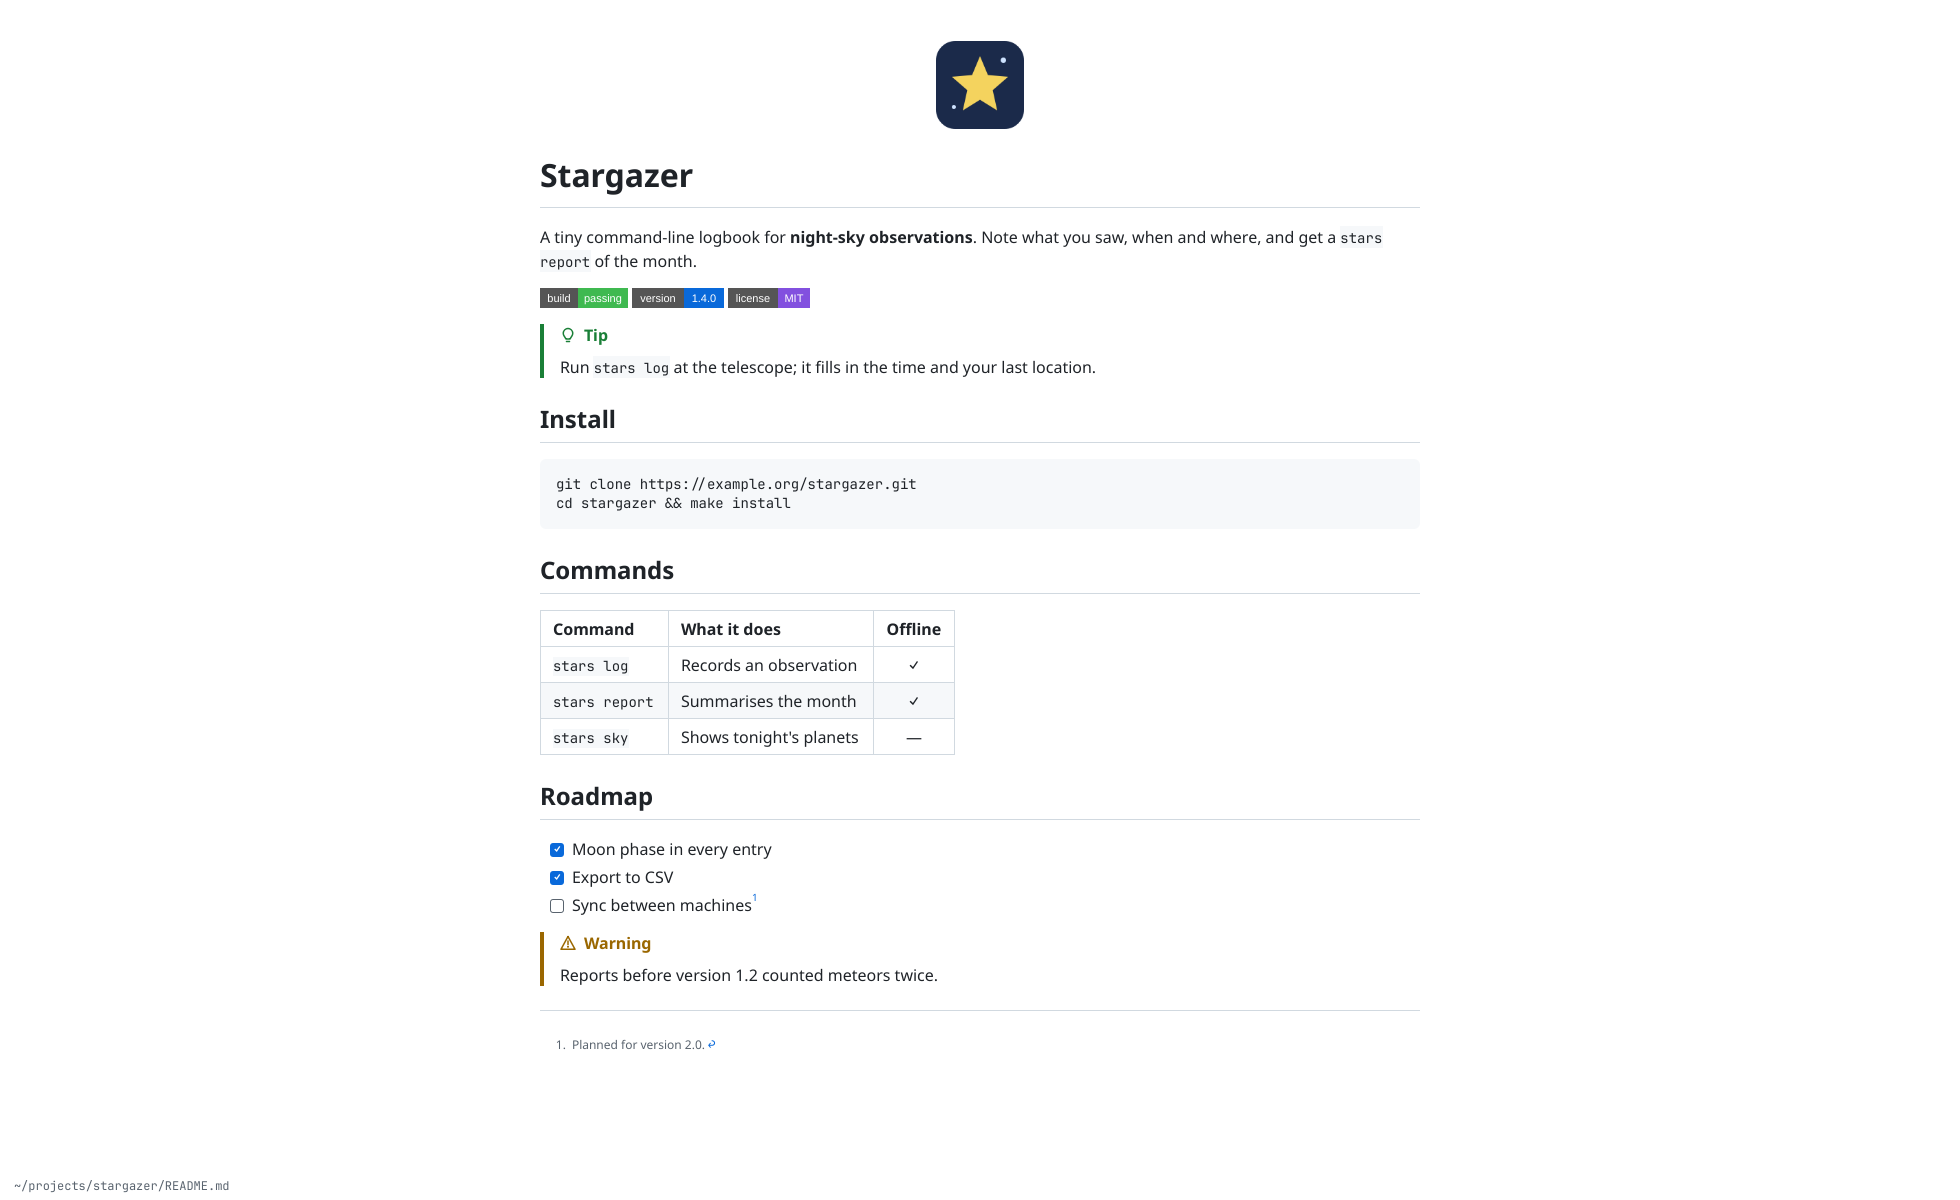
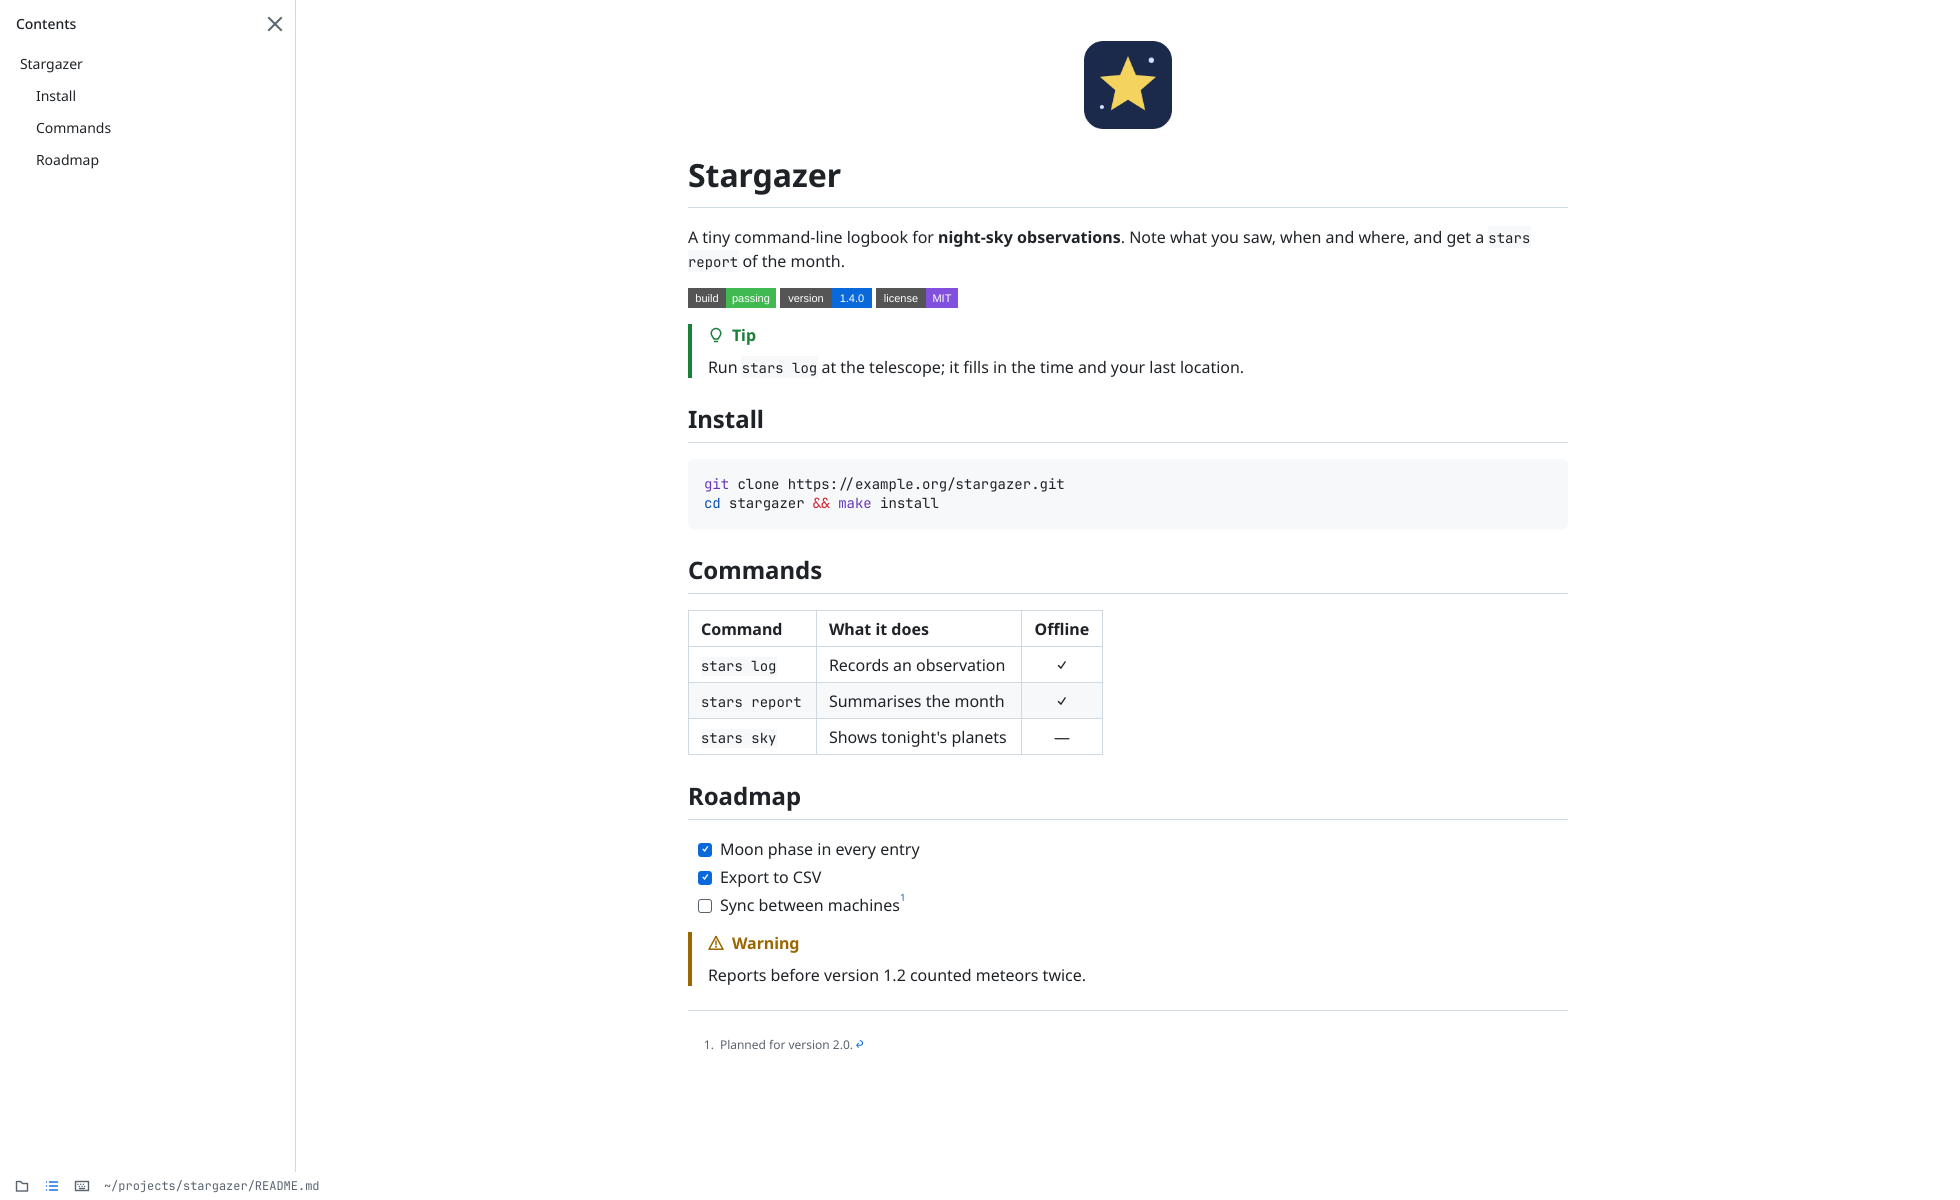
Rework the README for people installing Omaread
It now says plainly that Omaread is a community app, and puts what a
user needs first: install from source, the optional math and Mermaid
packages, uninstalling and making it the default for .md files; then a
short list of features, the shortcuts as a table matching the in-app
list, and what Omaread does on the network and with links. Building,
tests and bin/snapshot move to a Development section at the end.

The screenshots are remade with the footer buttons, and the light one
shows the contents beside the page.

diff --git a/README.md b/README.md
@@ -1,58 +1,132 @@
 # Omaread
 
-A dead-simple Markdown reader built with Qt Quick and C++. It shows a file the
-way GitHub shows it, follows the Omarchy theme and system dark/light mode, and
-keeps up with the file as it changes. It is modelled on
-[Omawrite](https://github.com/omacom/omawrite), and the two work as a pair:
-write in one, read in the other.
+A dead-simple Markdown reader for [Omarchy](https://omarchy.org), built with
+Qt Quick and C++. It shows a file the way GitHub shows it, follows the Omarchy
+theme and system dark/light mode, and keeps up with the file as it changes. It
+is modelled on [Omawrite](https://github.com/omacom/omawrite), and the two work
+as a pair: write in one, read in the other.
 
-<img width="1960" height="1200" alt="Omaread showing a project README in GitHub's light colours" src="docs/omaread-light.png" />
+Omaread is a community app. It is not made by, or affiliated with, the Omarchy
+team.
+
+<img width="1960" height="1200" alt="Omaread showing a project README in GitHub's light colours, with its contents beside the page" src="docs/omaread-light.png" />
 <img width="1960" height="1200" alt="The same README in GitHub's dark colours" src="docs/omaread-dark.png" />
 
-Files are parsed by [cmark-gfm](https://github.com/github/cmark-gfm), the
-parser github.com itself uses, with the same extensions. That covers tables,
-task lists, strikethrough, autolinks and footnotes, plus GitHub's alerts
-(`> [!NOTE]`, `> [!TIP]`, `> [!IMPORTANT]`, `> [!WARNING]`, `> [!CAUTION]`),
-and GitHub's emoji shortcodes, so `:tada:` shows 🎉.
-Headings, quotes, code panels and tables use github.com's sizes and spacing.
-Colours come from the current Omarchy theme, and fall back to GitHub's own
-light and dark palettes when there is none. Code blocks that name their
-language are highlighted by
-[KSyntaxHighlighting](https://invent.kde.org/frameworks/syntax-highlighting),
-which knows some three hundred, in GitHub's colours, or with an Omarchy theme in
-the colours its editor themes give each kind of token.
+## Install
 
-Math, `$…$` in a line and `$$…$$` or a `` ```math `` block on its own, is drawn
-by [MathJax](https://www.mathjax.org), the engine GitHub uses, when `node` and
-Arch's `mathjax` are installed. Formulas are drawn in the background and kept
-in `~/.cache/omaread`; until then, or without MathJax, a formula shows as its
-TeX. Arch's MathJax leaves out the fonts for `\mathbb`, `\mathcal` and the
-like, so formulas using them show as TeX too.
+On Omarchy or Arch Linux, with `git` and `base-devel` installed:
 
-`` ```mermaid `` blocks are drawn as diagrams by Mermaid's own `mmdc`, when
-`mermaid-cli` is installed, the same way: in the background, kept in the cache,
-and shown as code until then. They follow the page's colours: Mermaid's light
-and dark themes on GitHub's palettes, as on github.com, or the Omarchy theme's.
-A block that is not a diagram stays code. Printing draws formulas and diagrams
-in GitHub's light colours.
+```sh
+git clone https://github.com/Frestina/omaread && cd omaread && ./bin/install
+```
 
-Without `node` and `mathjax`, or without `mermaid-cli`, a formula on its own
-line or a diagram shows as its source with a line under it naming what to
-install. A formula in a line of text shows as TeX without one, and paper
-leaves the line out.
+This builds a package and installs it through pacman, which asks for your
+password, along with what Omaread needs. Run it again after a `git pull` to
+update.
 
-READMEs read as they would in their repository:
+To make Omaread what opens `.md` files:
 
-- Images and links resolve relative to the file. A path starting with `/`
-  resolves from the root of the git repository the file is in.
-- Badges and screenshots load from the web, and GIFs play.
-- HTML such as `<p align="center"><img width="200" …></p>`, `<div align="center">`
-  and `<details>` is honoured, and scripts and styles are dropped. `<details>`
-  folds as on GitHub: closed unless it says `open`, and a click on its summary
-  opens or closes it. A link to a heading inside opens it, and it prints open.
-- A link to another Markdown file opens it in the same window. `Alt+Left` comes
-  back to where you were. Links to `#headings` and footnotes scroll there, and
-  web links open in the browser.
+```sh
+xdg-mime default omaread.desktop text/markdown text/x-markdown
+```
+
+Math and Mermaid diagrams are optional. Without them, a formula or diagram
+shows as its source with a line under it naming what to install:
+
+```sh
+sudo pacman -S nodejs mathjax    # math
+sudo pacman -S mermaid-cli       # Mermaid diagrams
+```
+
+To uninstall:
+
+```sh
+sudo pacman -R omaread
+```
+
+## Features
+
+- **GitHub's Markdown.** Files are parsed by
+  [cmark-gfm](https://github.com/github/cmark-gfm), the parser github.com
+  itself uses, with the same extensions: tables, task lists, strikethrough,
+  autolinks and footnotes, plus GitHub's alerts (`> [!NOTE]`, `> [!TIP]`,
+  `> [!IMPORTANT]`, `> [!WARNING]`, `> [!CAUTION]`) and emoji shortcodes, so
+  `:tada:` shows 🎉. Headings, quotes, code panels and tables use github.com's
+  sizes and spacing.
+- **Code** that names its language is highlighted by
+  [KSyntaxHighlighting](https://invent.kde.org/frameworks/syntax-highlighting),
+  which knows some three hundred, in GitHub's colours or the Omarchy theme's.
+- **Math**, `$…$` in a line and `$$…$$` or a `` ```math `` block on its own,
+  is drawn by [MathJax](https://www.mathjax.org), the engine GitHub uses.
+  Arch's MathJax leaves out the fonts for `\mathbb`, `\mathcal` and the like,
+  so formulas using them show as TeX.
+- **Mermaid** `` ```mermaid `` blocks are drawn as diagrams by Mermaid's own
+  `mmdc`, in Mermaid's light and dark themes as on github.com, or in the
+  Omarchy theme's colours.
+- **READMEs read as they would in their repository.** Images and links
+  resolve relative to the file, and a path starting with `/` from the root of
+  its git repository. Badges and screenshots load from the web, and GIFs
+  play. HTML such as `<p align="center">`, `<img width="200">`,
+  `<div align="center">` and `<details>` is honoured; `<details>` folds as on
+  GitHub.
+- **Links.** A link to another Markdown file opens it in the same window, and
+  `Alt+Left` comes back. Links to `#headings` and footnotes scroll there, and
+  web and `mailto:` links open in your browser or mail app. See
+  [Privacy and safety](#privacy-and-safety) for links to other files.
+- **The Omarchy look.** Colours come from the current Omarchy theme and
+  follow it when it changes, falling back to GitHub's own light and dark
+  palettes when there is none. The rounded corners of the find bar, the
+  shortcuts and the back-to-top button follow Hyprland's window rounding.
+  Text follows the desktop text size (`omarchy display text size`).
+- **Keeps up with the file.** Changes on disk show by themselves, and the page
+  keeps your place: the block you are reading stays at the top of the window,
+  even when text above it changes or images above it load.
+- **Contents.** A panel beside the page lists the headings, marks the section
+  you are reading, and glides to a heading on a click. It lays itself over the
+  page when the window is narrow.
+- **Find in the page**, ignoring case and accents, so `cafe` finds Café.
+- **Print and Save as PDF**, laid out as on screen in GitHub's light colours.
+- **Scrolling** as in a browser: a touchpad moves the page with your fingers,
+  a mouse wheel glides, and once you are a window down, a button at the bottom
+  right goes back to the top.
+- **Omawrite.** `Ctrl+E` opens the file in Omawrite when it is installed;
+  Omaread keeps showing the file and updates as you save.
+
+## Shortcuts
+
+`F1` shows them all in the window.
+
+| Shortcut | Does |
+| --- | --- |
+| **File** | |
+| `Ctrl+O` | Open a file (or drop one on the window) |
+| `Ctrl+P` | Print |
+| `Ctrl+Shift+S` | Save as PDF |
+| `Ctrl+E` | Edit in Omawrite |
+| `Ctrl+R` or `F5` | Reload |
+| `Alt+Left` or `Backspace` | Go back |
+| `Ctrl+W` or `Ctrl+Q` | Close the window |
+| **Find** | |
+| `Ctrl+F` | Find in page |
+| `Enter`, `Ctrl+G` or `F3` | Next match |
+| `Shift+Enter`, `Ctrl+Shift+G` or `Shift+F3` | Previous match |
+| `Esc` | Close find |
+| **Reading** | |
+| `Down` or `j` | Scroll down |
+| `Up` or `k` | Scroll up |
+| `Space` or `Page Down` | Next screen |
+| `Shift+Space` or `Page Up` | Previous screen |
+| `Home` or `g` | Top |
+| `End` or `G` | Bottom |
+| `Ctrl+C` | Copy the selection |
+| **View** | |
+| `Ctrl+=` | Larger text |
+| `Ctrl+-` | Smaller text |
+| `Ctrl+0` | Default text size |
+| `Ctrl+scroll` | Change the text size |
+| `Ctrl+Shift+O` | Contents |
+| `F11` or `Super+F` | Fullscreen |
+| `F1`, `Ctrl+/` or `Ctrl+?` | Keyboard shortcuts |
 
 ## Command line
 
@@ -60,68 +134,35 @@ READMEs read as they would in their repository:
 drop a file on. `omaread --help` and `omaread --version` answer in the terminal
 without opening a window.
 
-## Shortcuts
+## Privacy and safety
 
-- `Ctrl+Shift+O` shows or hides the contents, as does the list button at the
-  bottom left, and Omaread remembers which. The contents list the headings,
-  indented by level as GitHub's outline does. A click glides to a heading,
-  opening the `<details>` it is folded in, and the section being read is
-  marked as you scroll. The panel sits on the left beside the page, or over
-  it when the window is too narrow to keep the text at a comfortable width,
-  where `Esc` closes it. A file without headings has no contents.
-- `F1`, `Ctrl+/` or `Ctrl+?` lists every shortcut, as does the keyboard
-  button at the bottom left.
-- `Ctrl+O` opens a Markdown file through the portal picker, as does the folder
-  button at the bottom left. Dropping a file on the window works too.
-- `Ctrl+P` prints. The page is laid out as on screen, in GitHub's light
-  colours whatever the screen shows.
-- `Ctrl+Shift+S` saves the same pages as a PDF, without the print dialog. The
-  file chooser suggests the file's own name and folder, as `notes.pdf` beside
-  `notes.md`.
-- `Ctrl+E` opens the file in Omawrite, when it is installed. Omaread keeps
-  showing the file and updates as you save.
-- `Ctrl+R` or `F5` reloads, though changes on disk are picked up by themselves.
-  Either way the page keeps your place: the block at the top of the window
-  stays there, as far into it as before, when text above it is added, removed
-  or changed, and while images above it load. If that block itself changed,
-  the block now in its place takes its spot; if its text is in the file more
-  than once, the copy nearest where it was. At the very top, the page stays
-  at the top.
-- `Alt+Left` or `Backspace` goes back after following a link.
-- `Ctrl+=` and `Ctrl+-` change the text size, `Ctrl+0` returns to the default.
-  `Ctrl+scroll` does the same.
-- `Ctrl+C` copies the selected text. Code blocks have a Copy button.
-- `Ctrl+F` finds in the page, as in Omawrite: case and any accents left out
-  of the search are ignored, so `cafe` finds Café. `Enter` or `Ctrl+G` goes
-  to the next match, `Shift+Enter` or `Ctrl+Shift+G` to the one before, and
-  `Esc` closes. A match in a closed `<details>` opens it.
-- `Up`/`Down` or `j`/`k` scroll, as do `Page Up`/`Page Down` and `Space`.
-  `Home`/`End` or `g`/`G` jump to the top and bottom, and once the top is a
-  whole window out of sight, a button at the bottom right glides back to it.
-  Its corners, and those of the find bar, the shortcuts and the contents
-  over the page, are rounded as Hyprland rounds your windows' (Omarchy's
-  square ones, unless a theme or your config rounds them), and follow a
-  theme change. Code blocks and tables keep GitHub's. A touchpad moves the page twice as far as your fingers go, and a
-  mouse wheel glides three lines a notch, as in a browser and in Omawrite.
-- `Super+F` or `F11` toggles fullscreen.
-- `Ctrl+W` or `Ctrl+Q` closes the window.
+Omaread has no telemetry and never checks for updates. It goes on the network
+only for images a file links to, such as badges and screenshots in a README.
+They load as soon as the file opens, so the sites they come from see your IP
+address, as a browser opening the page would show it. Unlike github.com, there
+is no proxy in between.
 
-Text follows the desktop text size (`omarchy display text size`, or GNOME's
-`text-scaling-factor`), and `Ctrl+=` / `Ctrl+-` set your own size on top of it.
-That size is remembered.
+Clicking a link never runs anything. Web and `mailto:` links open in your
+browser or mail app, and Markdown files open in Omaread. Pictures, PDFs and
+plain-text files open in their viewer when both their name and their contents
+say that is what they are. Any other file, and any folder, is shown in your
+file manager instead, for you to open if you choose. Links to other kinds of
+address, such as `steam://` or `vscode://`, are refused.
 
-## Requirements
+Scripts, styles and style attributes in a file's HTML are dropped, as on
+GitHub. Math and diagrams are drawn on your computer, by `node` and `mmdc`,
+only when you have installed them.
 
-- Qt 6: `qt6-base` (which includes printing), `qt6-declarative` (which includes Qt Quick Controls) and
-  `qt6-svg` for SVG images and badges
-- `cmark-gfm`
-- `syntax-highlighting`, KDE's KSyntaxHighlighting, for code
-- `xdg-desktop-portal` and a portal backend
-- Optionally `nodejs` and `mathjax`, for math, and `mermaid-cli`, for diagrams
+Omaread keeps its settings (text size, whether the contents show, window size)
+in `~/.config/omaread`, and drawn formulas and diagrams in
+`~/.cache/omaread/figures`, where they are cleared a month after they were
+drawn.
 
-## Build and install
+## Development
 
-Install the requirements above, a C++17 compiler such as `gcc`, and `make`:
+Omaread needs Qt 6 (`qt6-base`, `qt6-declarative`, `qt6-svg`), `cmark-gfm`,
+`syntax-highlighting` and `xdg-desktop-portal` with a portal backend; to
+build, a C++17 compiler such as `gcc` and `make`.
 
 ```sh
 ./bin/build
@@ -130,23 +171,8 @@ Install the requirements above, a C++17 compiler such as `gcc`, and `make`:
 ```
 
 `bin/test` runs the Qt test suite with the offscreen platform, so it does not
-need a graphical session.
-
-On Arch Linux or Omarchy, install `base-devel` for the packaging tools, then
-build and install the package:
-
-```sh
-./bin/install
-```
-
-This runs the local build and `makepkg -fsi`, which installs the package through
-pacman and may ask for authentication. To make Omaread what opens `.md` files:
-
-```sh
-xdg-mime default omaread.desktop text/markdown text/x-markdown
-```
-
-## Seeing changes without a window
+need a graphical session. `bin/install` builds the Arch package from the
+working tree with `makepkg -fsi`.
 
 `bin/snapshot` renders a file offscreen, to look at a change without opening
 Omaread: a PNG of the window, or the printed pages as a PDF.
